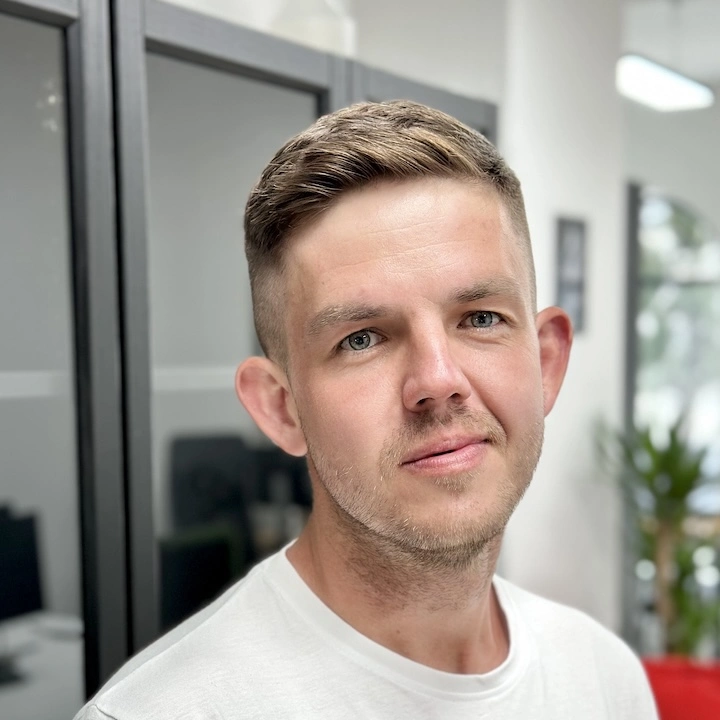
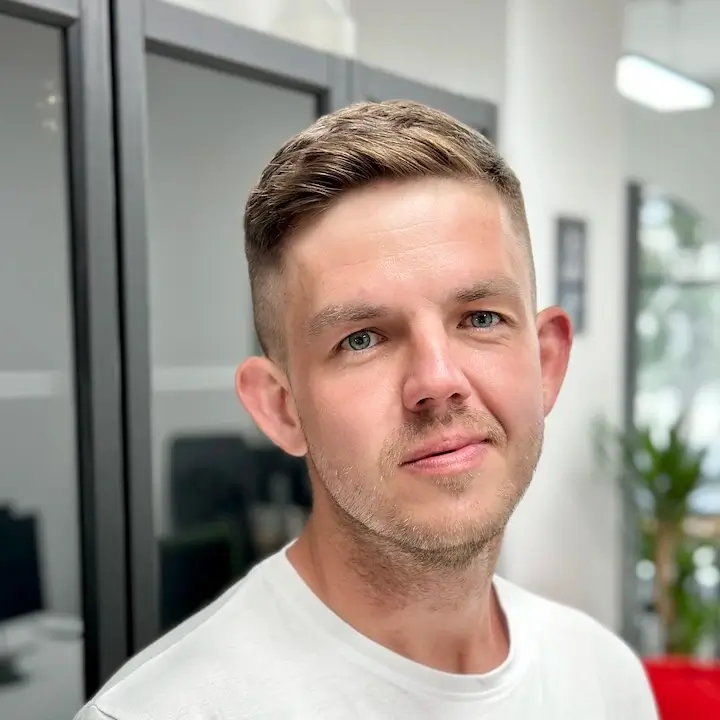
Optimized images

Changed region(s): [[0.8861, 0.9167, 1.0, 1.0]]

diff --git a/_layouts/default.html b/_layouts/default.html
@@ -29,12 +29,12 @@
     <div class="page">
       {% if page.url == "/" %}
       <div class="relative border-b border-gray-200 pb-10">
-        {% if site.cover_image %}
         <div
           class="absolute top-0 right-0 bottom-0 left-0 bg-cover bg-center opacity-15"
-          style="background-image: url({{ site.baseurl }}/assets/images/{{ site.cover_image }})"
+          style="background-image: url({{ site.baseurl }}/assets/images/bc_3.webp)"
         ></div>
-        {% endif %} {% include header.html %} {% if site.author %}
+        {% include header.html %}
+        {% if site.author %}
         <section class="relative">
           <div class="wrapper">{% include author.html %}</div>
         </section>
